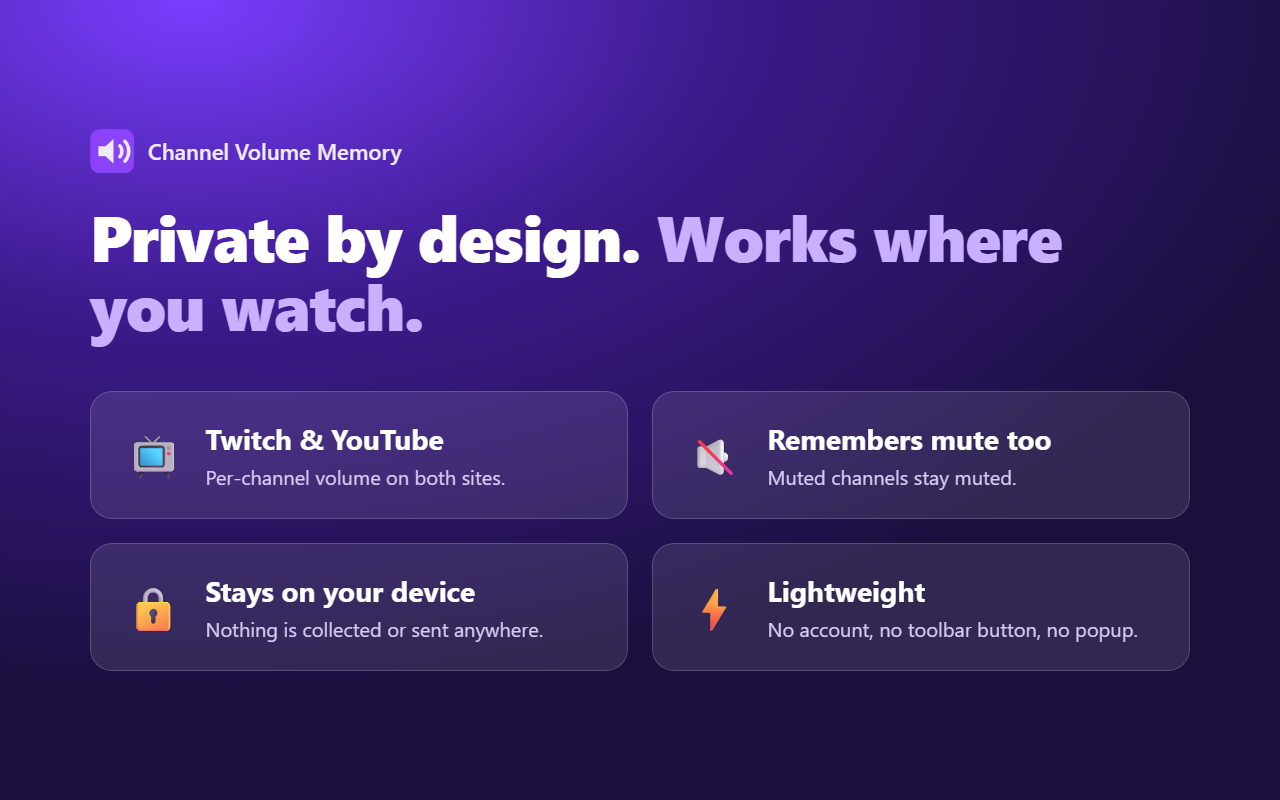
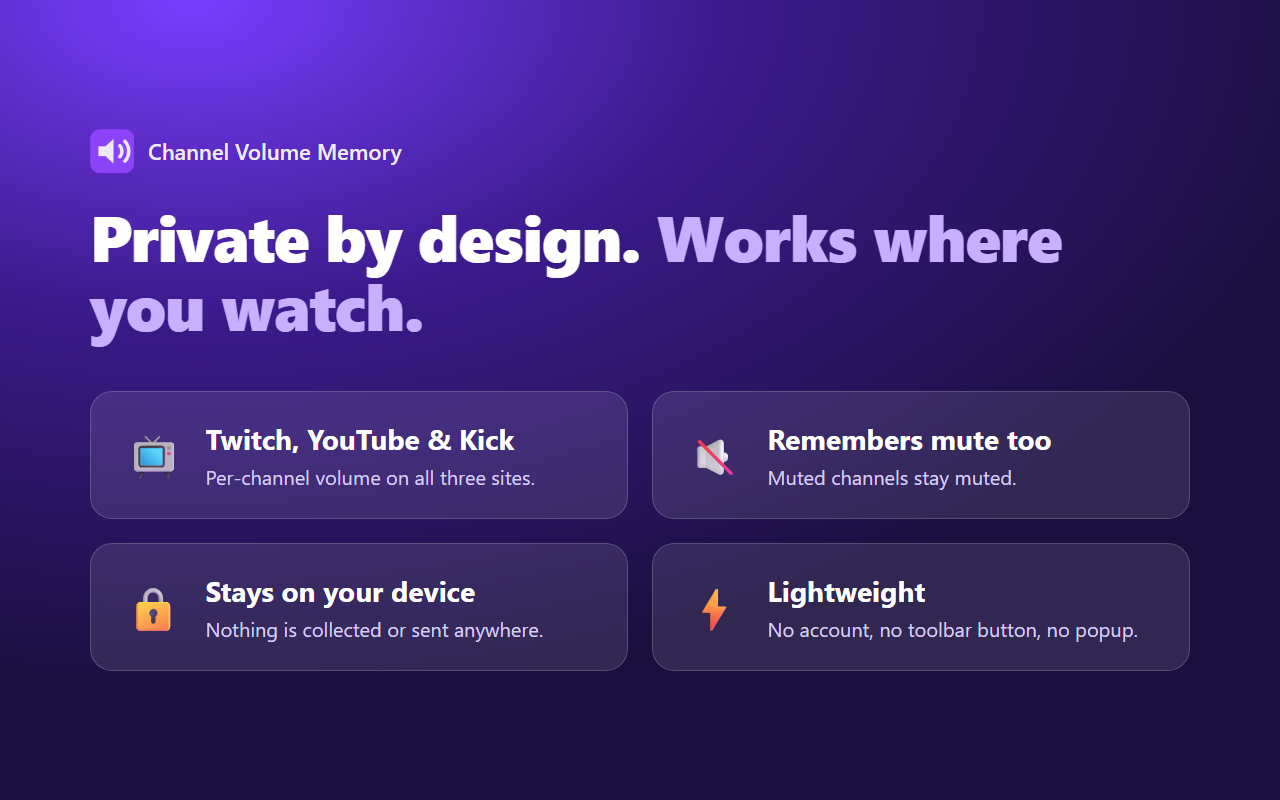
Add Kick support (v1.2.0)

diff --git a/content.js b/content.js
@@ -9,6 +9,12 @@ const TWITCH_RESERVED = new Set([
   'wallet', 'drops', 'friends', 'downloads', 'turbo', 'prime', 'search', 'u', 'moderator',
 ]);
 
+const KICK_RESERVED = new Set([
+  'browse', 'category', 'categories', 'events', 'video', 'videos', 'clips', 'clip', 'dashboard',
+  'following', 'search', 'settings', 'popout', 'community-guidelines', 'terms-of-service',
+  'privacy-policy', 'dmca-policy', 'support', 'creator-dashboard', 'subscriptions', 'wallet',
+]);
+
 const adapters = {
   'www.twitch.tv': {
     id: 'twitch',
@@ -25,6 +31,19 @@ const adapters = {
         slider.dispatchEvent(new Event('input', { bubbles: true }));
         slider.dispatchEvent(new Event('change', { bubbles: true }));
       }
+      video.volume = volume;
+      video.muted = muted;
+    },
+  },
+  'kick.com': {
+    id: 'kick',
+    getChannel() {
+      const seg = location.pathname.split('/').filter(Boolean)[0];
+      return seg && !KICK_RESERVED.has(seg.toLowerCase()) ? seg.toLowerCase() : null;
+    },
+    // Kick's slider is a custom control that can't be driven reliably from a content script, so set the
+    // video directly. The on-screen slider catches up the next time the user touches it.
+    setVolume(video, { volume, muted }) {
       video.volume = volume;
       video.muted = muted;
     },

diff --git a/store/src/3.html b/store/src/3.html
@@ -2,7 +2,7 @@
 <div class="brand"><img src="../../icons/icon128.png">Channel Volume Memory</div>
 <h1>Private by design. <span>Works where you watch.</span></h1>
 <div class="feats">
-  <div class="feat"><div class="ico">📺</div><div><h3>Twitch &amp; YouTube</h3><p>Per-channel volume on both sites.</p></div></div>
+  <div class="feat"><div class="ico">📺</div><div><h3>Twitch, YouTube &amp; Kick</h3><p>Per-channel volume on all three sites.</p></div></div>
   <div class="feat"><div class="ico">🔇</div><div><h3>Remembers mute too</h3><p>Muted channels stay muted.</p></div></div>
   <div class="feat"><div class="ico">🔒</div><div><h3>Stays on your device</h3><p>Nothing is collected or sent anywhere.</p></div></div>
   <div class="feat"><div class="ico">⚡</div><div><h3>Lightweight</h3><p>No account, no toolbar button, no popup.</p></div></div>

diff --git a/store/listing.md b/store/listing.md
@@ -2,10 +2,10 @@
 
 **Name:** Channel Volume Memory
 **Category:** Productivity (or Entertainment)
-**Summary (<=132 chars):** Remembers the player volume for each Twitch and YouTube channel. No popup, no setup.
+**Summary (<=132 chars):** Remembers the player volume for each Twitch, YouTube and Kick channel. No popup, no setup.
 
 **Description:**
-Tired of resetting your volume every time you switch Twitch or YouTube channels? Channel Volume Memory
+Tired of resetting your volume every time you switch Twitch, YouTube or Kick channels? Channel Volume Memory
 remembers the volume (and mute state) you set for each channel and restores it automatically when you return.
 
 - Just use the site's own volume slider. There's nothing else to open or configure.
@@ -14,9 +14,9 @@ remembers the volume (and mute state) you set for each channel and restores it a
 
 **Permission justification:**
 - `storage`: saves each channel's volume locally.
-- Host access to `https://www.twitch.tv/*` and `https://www.youtube.com/*`: needed to read and set the player volume and identify the channel.
+- Host access to `https://www.twitch.tv/*`, `https://www.youtube.com/*` and `https://kick.com/*`: needed to read and set the player volume and identify the channel.
 
-**Single purpose:** Remember and restore the video player volume per channel on Twitch and YouTube.
+**Single purpose:** Remember and restore the video player volume per channel on Twitch, YouTube and Kick.
 **Data usage:** No user data collected; no data leaves the device.
 
 **Screenshots:** `store/screenshots/screenshot-1.png` to `screenshot-3.png` (1280x800, 24-bit PNG).

diff --git a/README.md b/README.md
@@ -1,6 +1,6 @@
 # Channel Volume Memory
 
-Automatically remembers the player volume for each Twitch and YouTube channel. Use the site's own
+Automatically remembers the player volume for each Twitch, YouTube and Kick channel. Use the site's own
 volume slider as usual; the extension saves it per channel and restores it next time. No popup, no setup.
 
 ![A different volume for every channel](store/screenshots/screenshot-1.png)
@@ -14,6 +14,7 @@ volume slider as usual; the extension saves it per channel and restores it next 
 ## How it works
 - Listens for volume/mute changes on the page's `<video>` element and stores them per channel in `chrome.storage.local`.
 - Twitch: channel comes from the URL; the native volume slider is set on restore.
+- Kick: channel comes from the URL; the volume is set on the video element directly.
 - YouTube: channel comes from the watch page's channel link (`@handle`); applies on `/watch` pages.
 - Volume changes shortly after a channel loads are ignored so the site's own startup reset isn't recorded.
 

diff --git a/PRIVACY.md b/PRIVACY.md
@@ -1,9 +1,9 @@
 # Privacy Policy — Channel Volume Memory
 
 Channel Volume Memory stores, locally in your browser (`chrome.storage.local`), the channel
-identifier (e.g. a Twitch channel name or YouTube handle) and the volume/mute setting you chose for it.
+identifier (e.g. a Twitch or Kick channel name, or YouTube handle) and the volume/mute setting you chose for it.
 
 - No data is sent to the developer or to any third party.
 - No analytics, tracking, or remote code.
-- The extension only runs on https://www.twitch.tv/ and https://www.youtube.com/.
+- The extension only runs on https://www.twitch.tv/, https://www.youtube.com/ and https://kick.com/.
 - Uninstalling the extension deletes all stored data.
